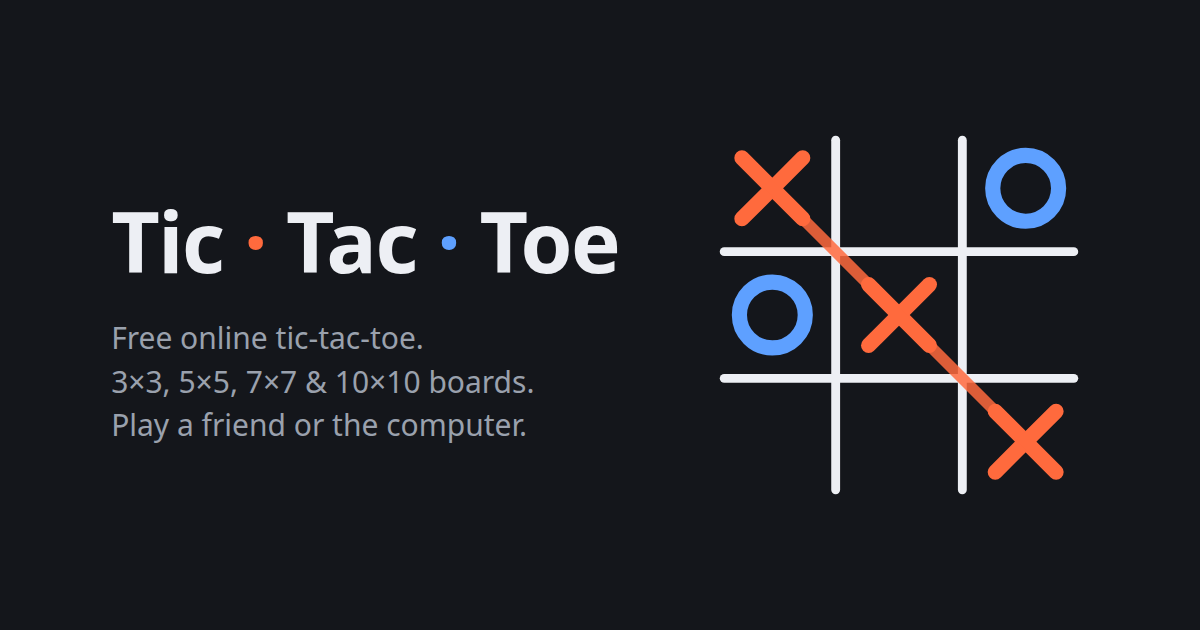
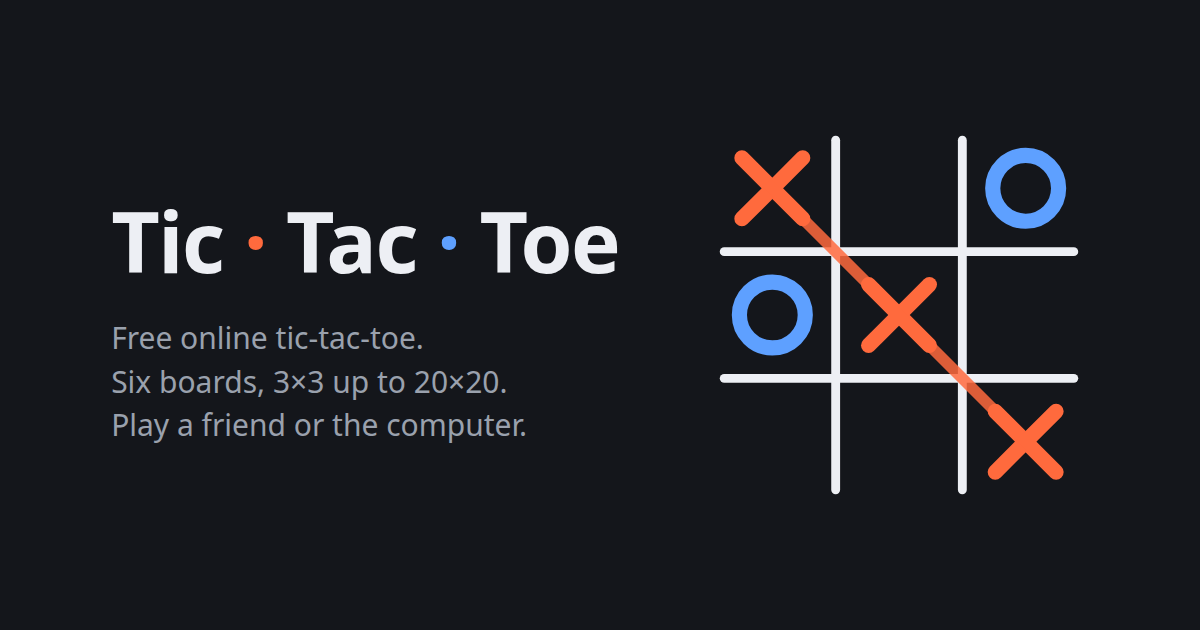
added 2more mode

Changed region(s): [[0.0925, 0.573, 0.4625, 0.6333]]

diff --git a/index.html b/index.html
@@ -3,8 +3,8 @@
 <head>
 <meta charset="utf-8">
 <meta name="viewport" content="width=device-width, initial-scale=1">
-<title>Tic Tac Toe — Play Online Free | 3×3, 5×5, 7×7 &amp; 10×10 Boards</title>
-<meta name="description" content="Play tic-tac-toe online for free. Choose 3×3, 5×5, 7×7 or 10×10 boards, challenge a friend on one device or take on the computer at three difficulty levels. No ads, no sign-up.">
+<title>Tic Tac Toe — Play Online Free | 3×3 to 20×20 Boards</title>
+<meta name="description" content="Play tic-tac-toe online for free. Choose from six board sizes (3×3 up to 20×20), challenge a friend on one device or take on the computer at three difficulty levels. No ads, no sign-up.">
 <meta name="robots" content="index, follow">
 <meta name="author" content="HeamVisal">
 <link rel="canonical" href="https://heamvisal.github.io/Tic-Tac-Toe-Web_Game/">
@@ -16,7 +16,7 @@
 <meta property="og:type" content="website">
 <meta property="og:site_name" content="Tic Tac Toe">
 <meta property="og:title" content="Tic Tac Toe — Play Online Free">
-<meta property="og:description" content="Free tic-tac-toe in your browser: 3×3, 5×5, 7×7 and 10×10 boards, two-player or vs computer.">
+<meta property="og:description" content="Free tic-tac-toe in your browser: six board sizes from 3×3 to 20×20, two-player, online with friends, or vs computer.">
 <meta property="og:url" content="https://heamvisal.github.io/Tic-Tac-Toe-Web_Game/">
 <meta property="og:image" content="https://heamvisal.github.io/Tic-Tac-Toe-Web_Game/assets/og-image.png">
 <meta property="og:image:width" content="1200">
@@ -26,7 +26,7 @@
 <!-- Twitter / X card -->
 <meta name="twitter:card" content="summary_large_image">
 <meta name="twitter:title" content="Tic Tac Toe — Play Online Free">
-<meta name="twitter:description" content="Free tic-tac-toe in your browser: 3×3, 5×5, 7×7 and 10×10 boards, two-player or vs computer.">
+<meta name="twitter:description" content="Free tic-tac-toe in your browser: six board sizes from 3×3 to 20×20, two-player, online with friends, or vs computer.">
 <meta name="twitter:image" content="https://heamvisal.github.io/Tic-Tac-Toe-Web_Game/assets/og-image.png">
 
 <link rel="stylesheet" href="./style.css">
@@ -38,7 +38,7 @@
   "@type": "VideoGame",
   "name": "Tic Tac Toe",
   "url": "https://heamvisal.github.io/Tic-Tac-Toe-Web_Game/",
-  "description": "Free browser tic-tac-toe with 3×3, 5×5, 7×7 and 10×10 boards. Play a friend on one device or the computer at easy, tricky or perfect difficulty.",
+  "description": "Free browser tic-tac-toe with six board sizes from 3×3 up to 20×20. Play a friend on one device or the computer at easy, tricky or perfect difficulty.",
   "genre": "Board game",
   "gamePlatform": "Web browser",
   "applicationCategory": "GameApplication",
@@ -71,6 +71,8 @@
       <button type="button" data-size="5" aria-pressed="false">5×5</button>
       <button type="button" data-size="7" aria-pressed="false">7×7</button>
       <button type="button" data-size="10" aria-pressed="false">10×10</button>
+      <button type="button" data-size="15" aria-pressed="false">15×15</button>
+      <button type="button" data-size="20" aria-pressed="false">20×20</button>
     </div>
     <div class="seg hidden" id="diffSeg" role="group" aria-label="Difficulty">
       <button type="button" data-diff="easy" aria-pressed="false">Easy</button>
@@ -123,7 +125,7 @@
       who take turns marking a square on the grid. The first player to line up enough marks in a row —
       horizontally, vertically or diagonally — wins the round.</p>
     <p>Pick your challenge: the classic <strong>3×3</strong> board needs three in a row, <strong>5×5</strong>
-      needs four, and the big <strong>7×7</strong> and <strong>10×10</strong> boards need five in a row.
+      needs four, and the bigger boards — <strong>7×7</strong>, <strong>10×10</strong>, <strong>15×15</strong> and <strong>20×20</strong> — need five in a row.
       Play against a friend on the same device, invite an online friend with a shared link,
       or face the computer on easy, tricky or perfect difficulty.
       Scores are saved in your browser between visits. Free to play, no ads, no sign-up.</p>

diff --git a/style.css b/style.css
@@ -395,3 +395,9 @@ body {
   font-size: 0.8rem;
   color: var(--muted);
 }
+
+/* ---------- huge boards (15x15, 20x20) ---------- */
+.arena.huge { width: min(96vw, 720px); }
+.arena.huge .cell { border-radius: 6px; padding: 8%; }
+.arena.huge .cell:focus-visible { outline-width: 1px; outline-offset: -2px; }
+.arena.huge .cell .ghost, .arena.huge .mark { inset: 8%; width: 84%; height: 84%; }

diff --git a/script.js b/script.js
@@ -5,7 +5,7 @@
   var SVG_NS = 'http://www.w3.org/2000/svg';
 
   /* board size -> marks in a row needed to win */
-  var BOARDS = { 3: 3, 5: 4, 7: 5, 10: 5 };
+  var BOARDS = { 3: 3, 5: 4, 7: 5, 10: 5, 15: 5, 20: 5 };
   var NEED_WORD = { 3: 'Three', 4: 'Four', 5: 'Five' };
   var DIRS = [[1, 0], [0, 1], [1, 1], [1, -1]]; /* [dc, dr] */
 
@@ -247,7 +247,8 @@
       el.hash.appendChild(h);
     }
 
-    el.arena.classList.toggle('large', N >= 7);
+    el.arena.classList.toggle('large', N >= 7 && N < 15);
+    el.arena.classList.toggle('huge', N >= 15);
     el.tagline.textContent = NEED_WORD[K] + ' in a row wins the round.';
   }
 

diff --git a/README.md b/README.md
@@ -12,7 +12,7 @@ A polished tic-tac-toe web game — no frameworks, no build step, no backend. Ju
   - **Two players** — pass and play on one device
   - **Vs computer** — three difficulties: *Easy* (random), *Tricky* (wins and blocks), *Perfect* (unbeatable minimax on 3×3, strong heuristic on bigger boards)
   - **Online friend** — click, get a game key, share the invite link, and play in real time
-- **Four board sizes**
+- **Six board sizes**
 
   | Board | Marks in a row to win |
   |-------|----------------------|
@@ -20,6 +20,8 @@ A polished tic-tac-toe web game — no frameworks, no build step, no backend. Ju
   | 5×5   | 4                    |
   | 7×7   | 5                    |
   | 10×10 | 5                    |
+  | 15×15 | 5                    |
+  | 20×20 | 5                    |
 
 - Animated marks, win strike-through, light/dark theme, keyboard navigation, screen-reader labels
 - Scores and settings saved in your browser between visits